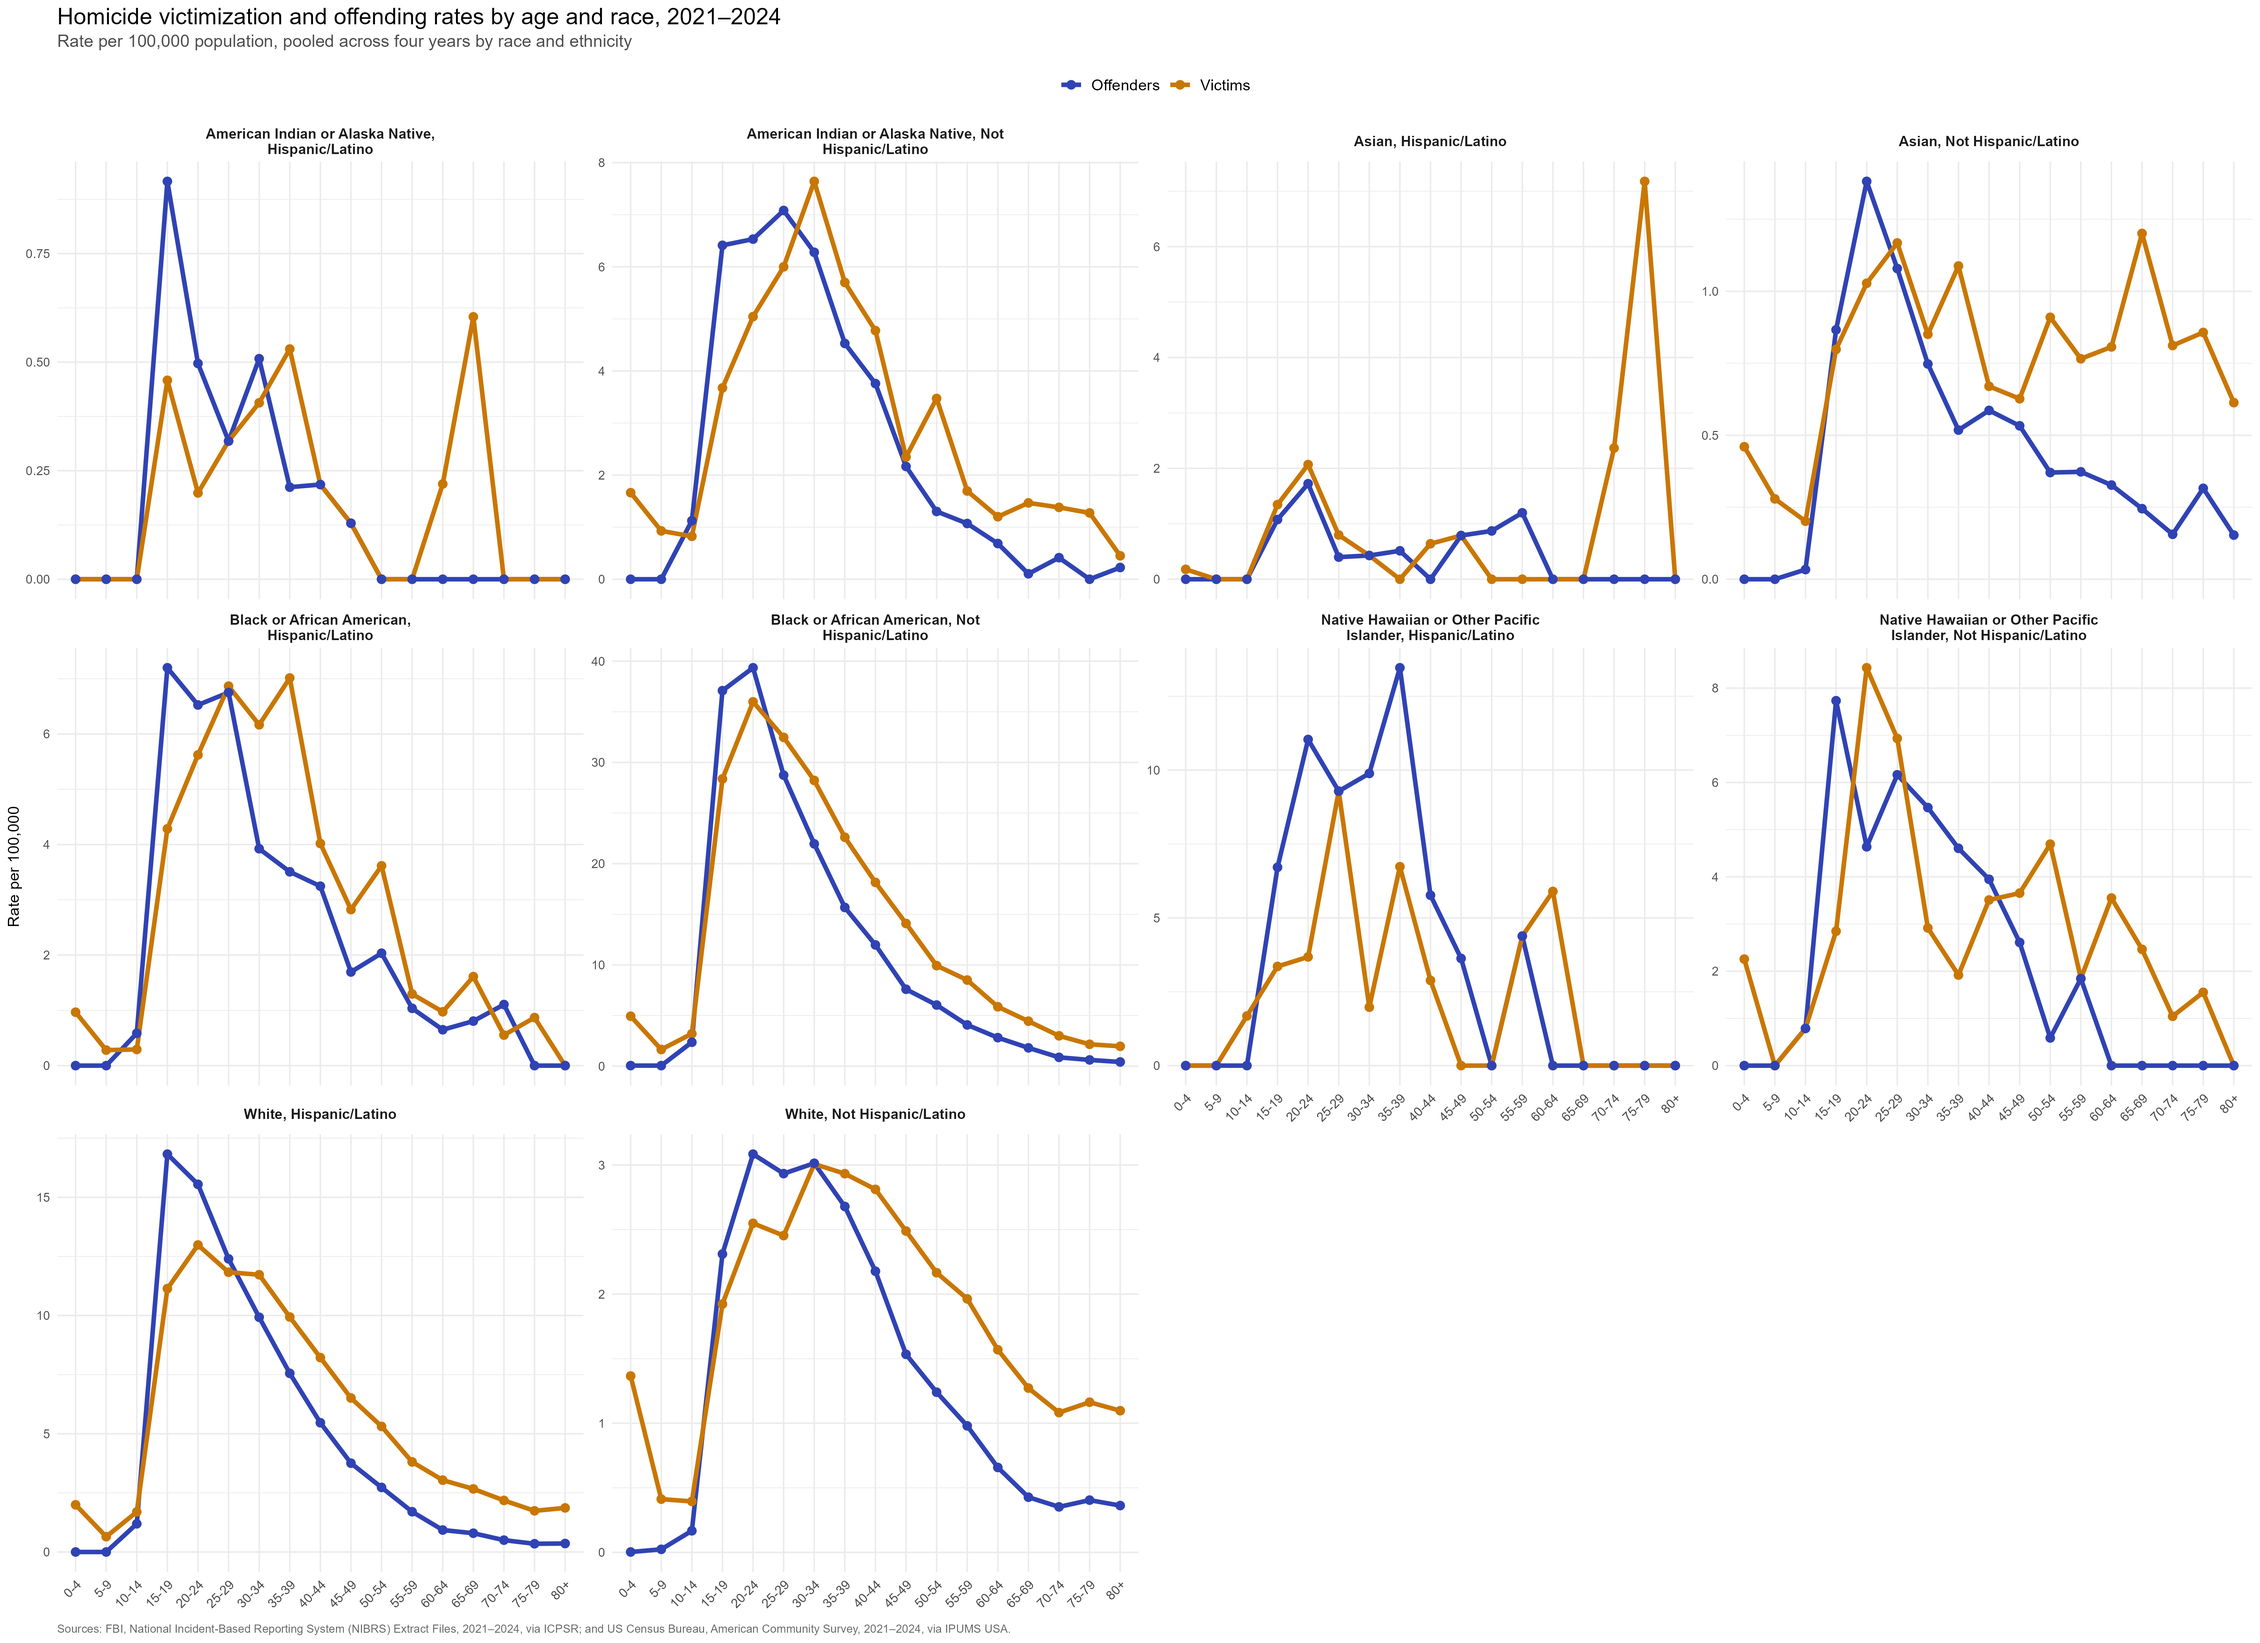
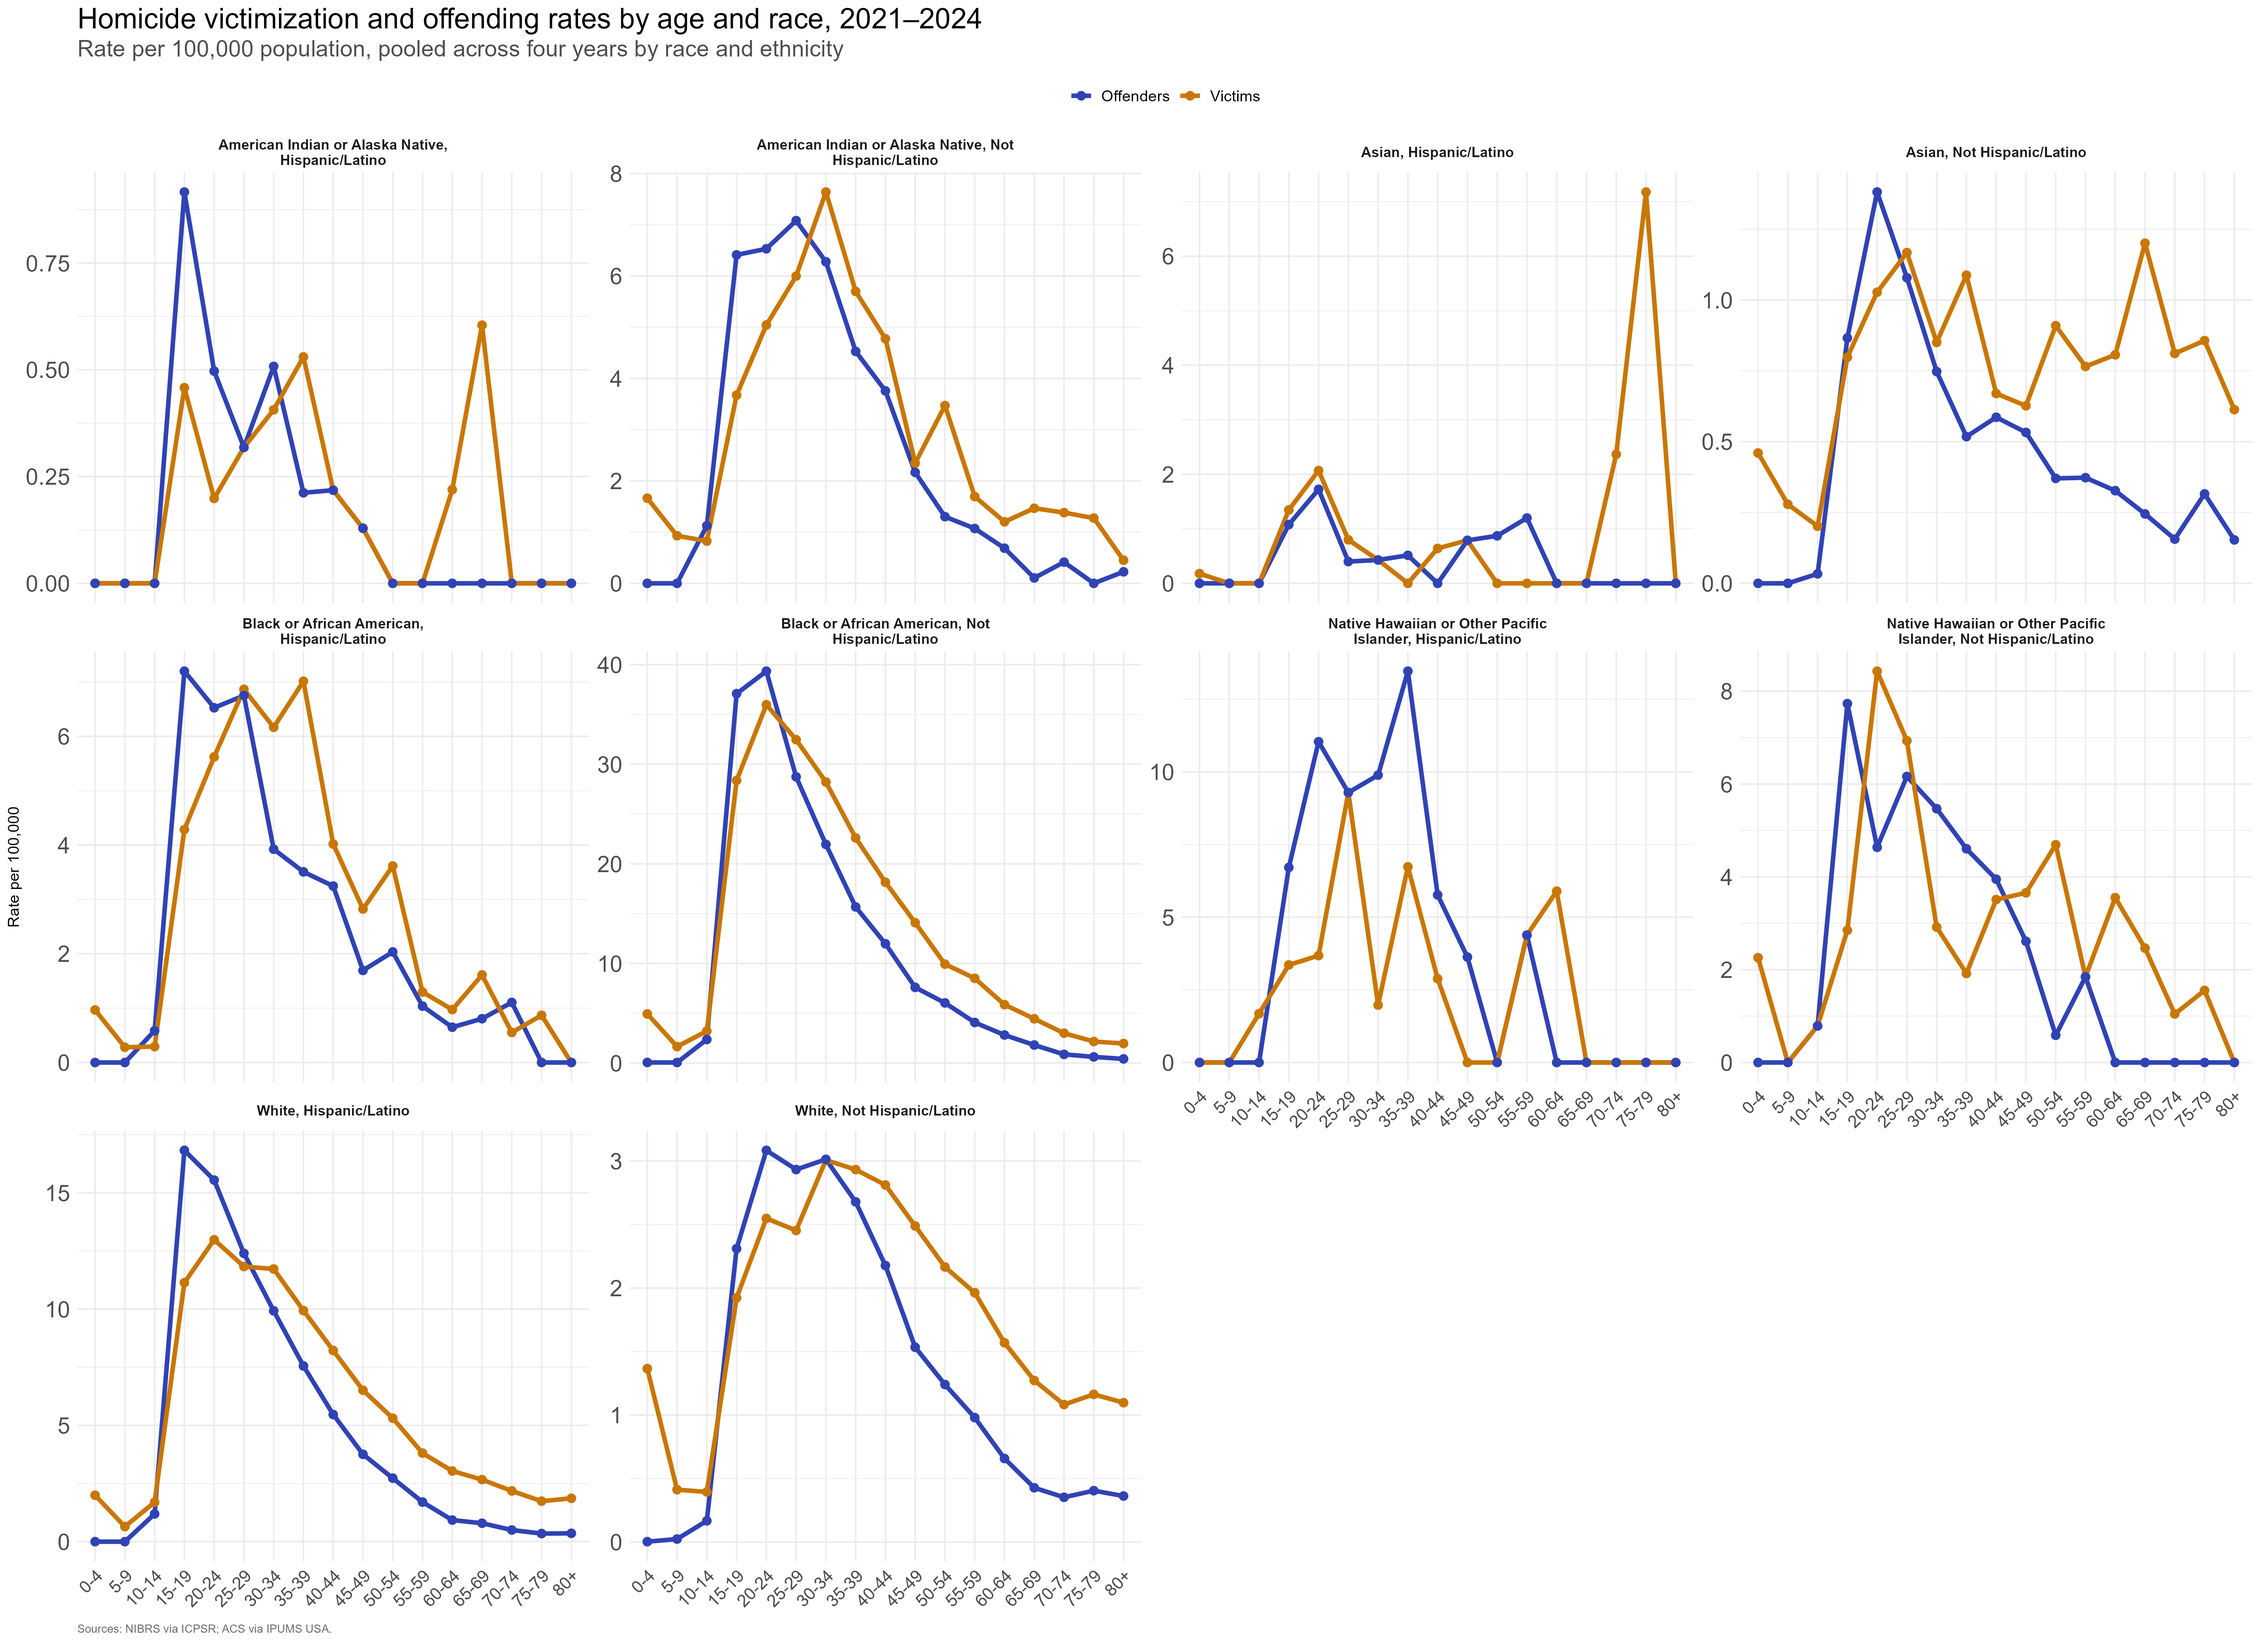
≽(◉˕ ◉ ≼マ

diff --git a/README.md b/README.md
@@ -6,6 +6,7 @@
 - [2023: ICPSR_39270](https://www.icpsr.umich.edu/web/NACJD/studies/39270)
 - [2024: ICPSR_39868](https://www.icpsr.umich.edu/web/ICPSR/studies/39868/versions/V1)
 
+Homicides classified by UCR offense codes 91 (murder/nonnegligent manslaughter) and 92 (negligent manslaughter), excluding 93 (justifiable homicide)
 
 ### ACS population estimates
 > aggregates by race, ethnicity, age, sex
